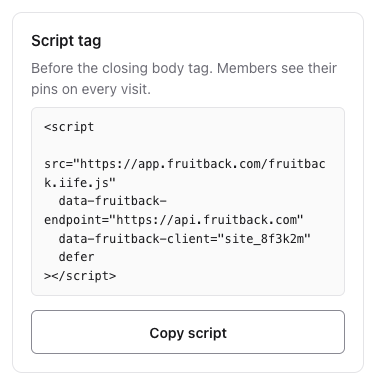
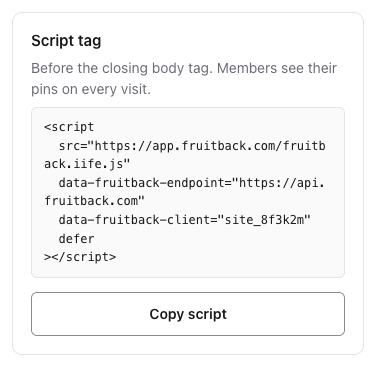
style(console): polish the setup page (FRU-491)
- The preview stays beside the steps while the last step scrolls (sticky).
- On a phone the header keeps the self-hosting link on the logo's line;
  the question before it is for a screen reader only.
- With no site yet, the empty frame is 280 px high under 640 px.
- « Fruitback did not answer » is a Problem, as every other refusal.
- The waiting line has a beating drop in the gutter, and « Open <site> »
  has its own line.
- A snippet breaks at any character, so an indented address no longer
  leaves a blank line. The guide capture of the script card is taken again.

diff --git a/apps/console/app/routes/setup.tsx b/apps/console/app/routes/setup.tsx
@@ -13,7 +13,7 @@ import {
   siteNow,
   siteStage,
 } from '../setup-stage';
-import { BrowserFrame, Button, EntryPage, Lead, Step, type StepState, Steps, Title } from '../ui';
+import { BrowserFrame, Button, EntryPage, Lead, Problem, Step, type StepState, Steps, Title } from '../ui';
 import { useLocale } from '../use-locale';
 import { Account, Ask, Sent, Unnamed } from './setup-account';
 import { PutDone, PutOnSite } from './setup-install';
@@ -173,7 +173,8 @@ export default function Setup() {
       width="full"
       aside={
         <p>
-          {t('Running your own server?')}{' '}
+          {/* On a phone the question is for a screen reader only: the link fits beside the logo, on one line. */}
+          <span className="max-sm:sr-only">{t('Running your own server?')}</span>{' '}
           <a
             href={`${SITE}/self-hosting.html`}
             className="text-ink underline decoration-1 underline-offset-3 hover:text-accent-strong"
@@ -209,10 +210,8 @@ export default function Setup() {
               />
             ) : null}
             {stage.kind === 'unchecked' ? (
-              <div className="mt-3 flex flex-col items-start gap-3">
-                <p role="alert" className="text-body text-muted">
-                  {t('Fruitback did not answer. Try again.')}
-                </p>
+              <div className="mt-3 flex flex-col items-start gap-3 [&>[role=alert]]:self-stretch">
+                <Problem>{t('Fruitback did not answer. Try again.')}</Problem>
                 <Button tone="outline" onClick={() => void resolveOnce().then(setStage)}>
                   {t('Try again')}
                 </Button>
@@ -240,10 +239,8 @@ export default function Setup() {
               <p className="mt-0.5 text-small text-muted">{t('The address you review.')}</p>
             ) : null}
             {stage.kind === 'unread' ? (
-              <div className="mt-3 flex flex-col items-start gap-3">
-                <p role="alert" className="text-body text-muted">
-                  {t('Fruitback did not answer. Your sites are not lost.')}
-                </p>
+              <div className="mt-3 flex flex-col items-start gap-3 [&>[role=alert]]:self-stretch">
+                <Problem>{t('Fruitback did not answer. Your sites are not lost.')}</Problem>
                 <Button
                   tone="outline"
                   onClick={() => void siteStage(CALLS, stage.account, stage.workspace).then(setStage)}
@@ -310,7 +307,8 @@ export default function Setup() {
         ) : null}
       </section>
 
-      <section aria-label={t('Preview of your site')} className="min-w-0 flex-999 basis-130">
+      {/* Sticky: the steps grow longer than a screen, and the site stays in view beside them. */}
+      <section aria-label={t('Preview of your site')} className="sticky top-8 min-w-0 flex-999 basis-130">
         {stage.kind === 'install' ? (
           // The site itself, live (FRU-354): `key` gives a site that changed a frame of its own.
           <SitePreview key={stage.site.origin} origin={stage.site.origin} />

diff --git a/apps/console/app/routes/setup-install.tsx b/apps/console/app/routes/setup-install.tsx
@@ -166,12 +166,18 @@ export function PutOnSite({ workspace, site }: { workspace: Workspace; site: Sit
       </AutoGrid>
       {/* The guide walks the sign-in of Fruitback Cloud, which a self-hosted console does not use. */}
       {BY_SIGN_IN ? <SetupGuide /> : null}
-      <p role="status" className="mt-4.5 text-small">
-        <strong className="font-semibold">{t('Waiting for your first note.')}</strong>{' '}
-        <span className="text-muted">{t('Open the site, click Leave feedback, then any part of the page.')}</span>{' '}
-        <LinkButton space="inline" href={site.origin} newTab>
-          {t('Open {site}', { site: host })}
-        </LinkButton>
+      {/* The drop beats while the page reads the site again. It hangs in the gutter: the words stay on the column. */}
+      <p role="status" className="mt-4.5 -ml-4.5 grid grid-cols-[auto_minmax(0,1fr)] gap-x-2.5 text-small">
+        <span aria-hidden="true" className="setup-waiting" />
+        <span>
+          <strong className="font-semibold">{t('Waiting for your first note.')}</strong>{' '}
+          <span className="text-muted">{t('Open the site, click Leave feedback, then any part of the page.')}</span>{' '}
+          <span className="mt-1 block wrap-anywhere">
+            <LinkButton space="inline" href={site.origin} newTab>
+              {t('Open {site}', { site: host })}
+            </LinkButton>
+          </span>
+        </span>
       </p>
       <div className="mt-6">
         <Button to={`/w/${workspace.id}/sites`}>{t('Open the console')}</Button>

diff --git a/apps/console/app/app.css b/apps/console/app/app.css
@@ -1433,7 +1433,8 @@ textarea {
 .kit-snippet {
   overflow-x: auto;
   white-space: pre-wrap;
-  overflow-wrap: anywhere;
+  /* Break in place, not at a space: an indented long address moved whole left a blank line above it. */
+  word-break: break-all;
   padding: 10px 12px;
   border: 1px solid var(--color-line);
   border-radius: var(--radius-button);
@@ -1529,6 +1530,13 @@ textarea {
 
 .kit-browser__empty p {
   max-width: 280px;
+}
+
+/* On a phone the frame comes under the steps: with no site yet, a short frame says enough. */
+@media (width < 640px) {
+  .kit-browser__page:has(> .kit-browser__empty) {
+    height: 280px;
+  }
 }
 
 /* No sentence: the drop alone, for a page that has nothing to say yet. */
@@ -1730,4 +1738,30 @@ textarea {
   margin-top: 4px;
   padding-top: 4px;
   border-top: 1px solid var(--color-line);
+}
+
+/* The setup waits for the first note (FRU-242): the drop of the logo beats while the page reads the site again. */
+.setup-waiting {
+  width: 8px;
+  height: 8px;
+  margin-top: calc((var(--text-small--line-height) * 1em - 8px) / 2);
+  border-radius: 50%;
+  background: var(--accent);
+  animation: setup-waiting 1.6s cubic-bezier(0.16, 1, 0.3, 1) infinite;
+}
+
+@keyframes setup-waiting {
+  0% {
+    box-shadow: 0 0 0 0 color-mix(in srgb, var(--accent) 45%, transparent);
+  }
+
+  100% {
+    box-shadow: 0 0 0 7px color-mix(in srgb, var(--accent) 0%, transparent);
+  }
+}
+
+@media (prefers-reduced-motion: reduce) {
+  .setup-waiting {
+    animation: none;
+  }
 }

diff --git a/docs/decisions/console.md b/docs/decisions/console.md
@@ -214,6 +214,15 @@ The console of the Cloud, `apps/console`: its words, its kit, and what it shows 
   will do. »: the mockup goes on with a pattern for the previews, which a domain that is proven
   covers (FRU-103, decided on 2026-10-13), and the worker takes no pattern as an address. So what is
   under the hint is 19.5 px higher than on the mockup.
+- **What the setup adds to the mockup** (FRU-491, measured at 1440 and 390 px; the boxes of the mockup
+  are unchanged). The preview is `sticky`: the last step is longer than a screen, and the site stays
+  beside it. On a phone the header keeps « Self-hosting guide » beside the logo, and « Running your own
+  server? » is for a screen reader only: on two lines the question sat on the rule of the header. With
+  no site yet, the empty frame is 280 px high under 640 px, not 620. « Fruitback did not answer » is a
+  `Problem`, as every other refusal of the setup, not grey text. While the step waits for the first
+  note, a red drop beats in the gutter (still under `prefers-reduced-motion`), and « Open <site> » has
+  its own line. A script in a `Snippet` breaks at any character (`word-break: break-all`): an indented
+  address moved whole to the next line and left a blank line above it.
 - **The last step is two cards, and the preview is the site itself** (FRU-242, FRU-354). « Browser
   extension » and « Script tag » share the logic of the Sites screen (`useCopy`, `useConnect` in
   `install-options.tsx`). **The preview frames the site the person added, in their browser**
